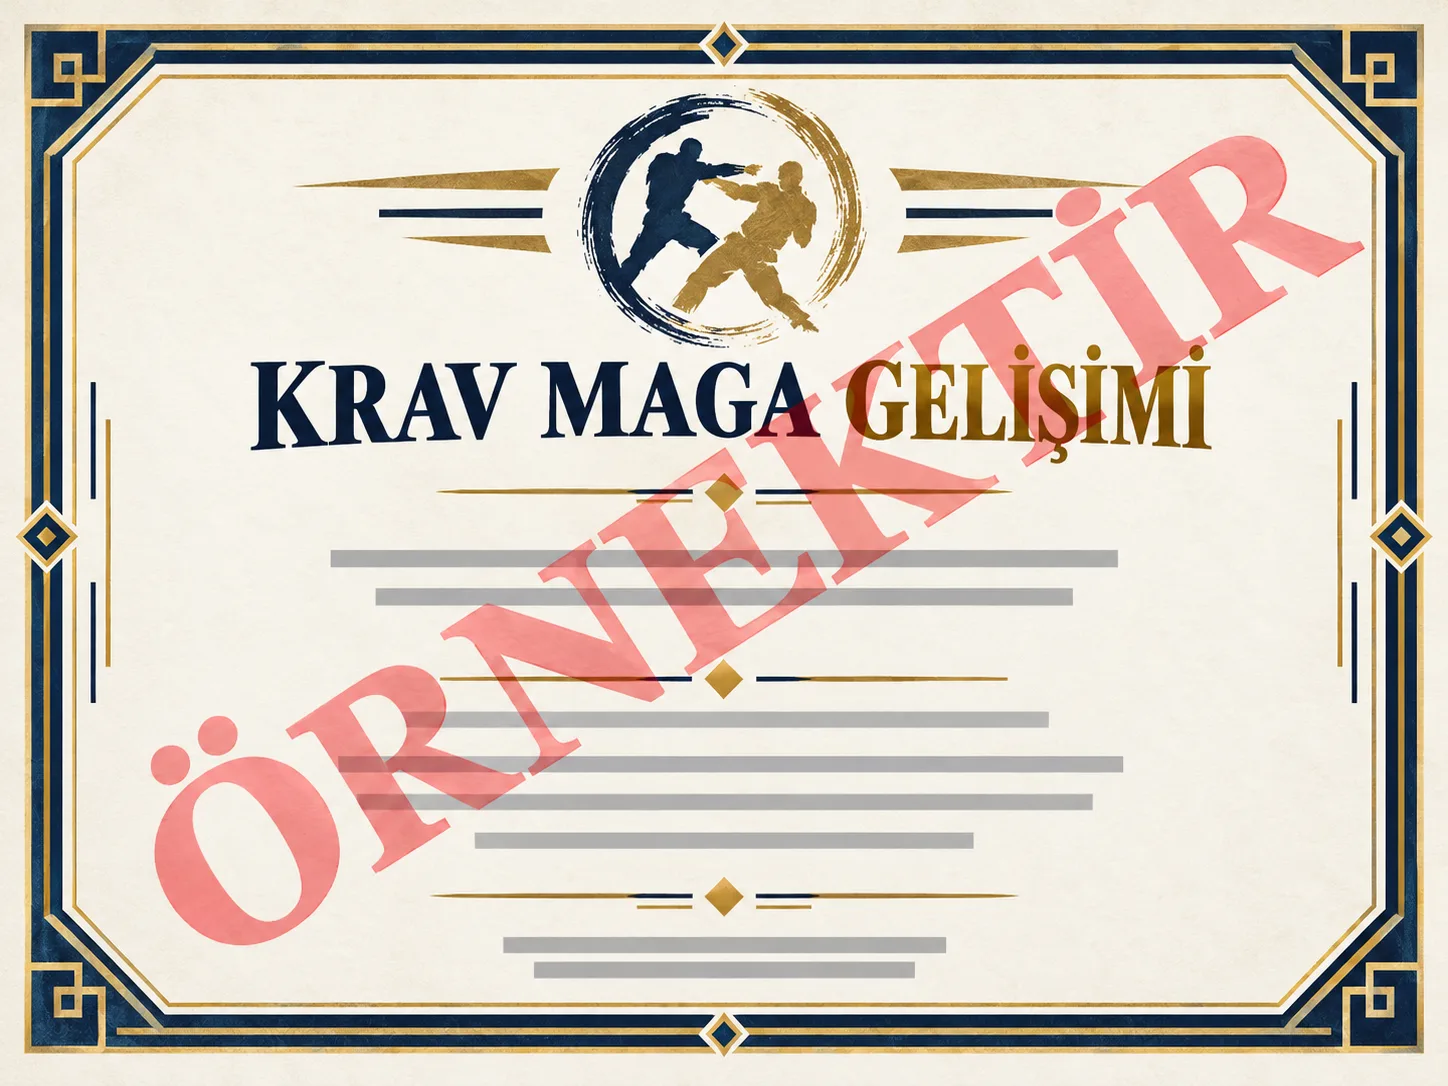
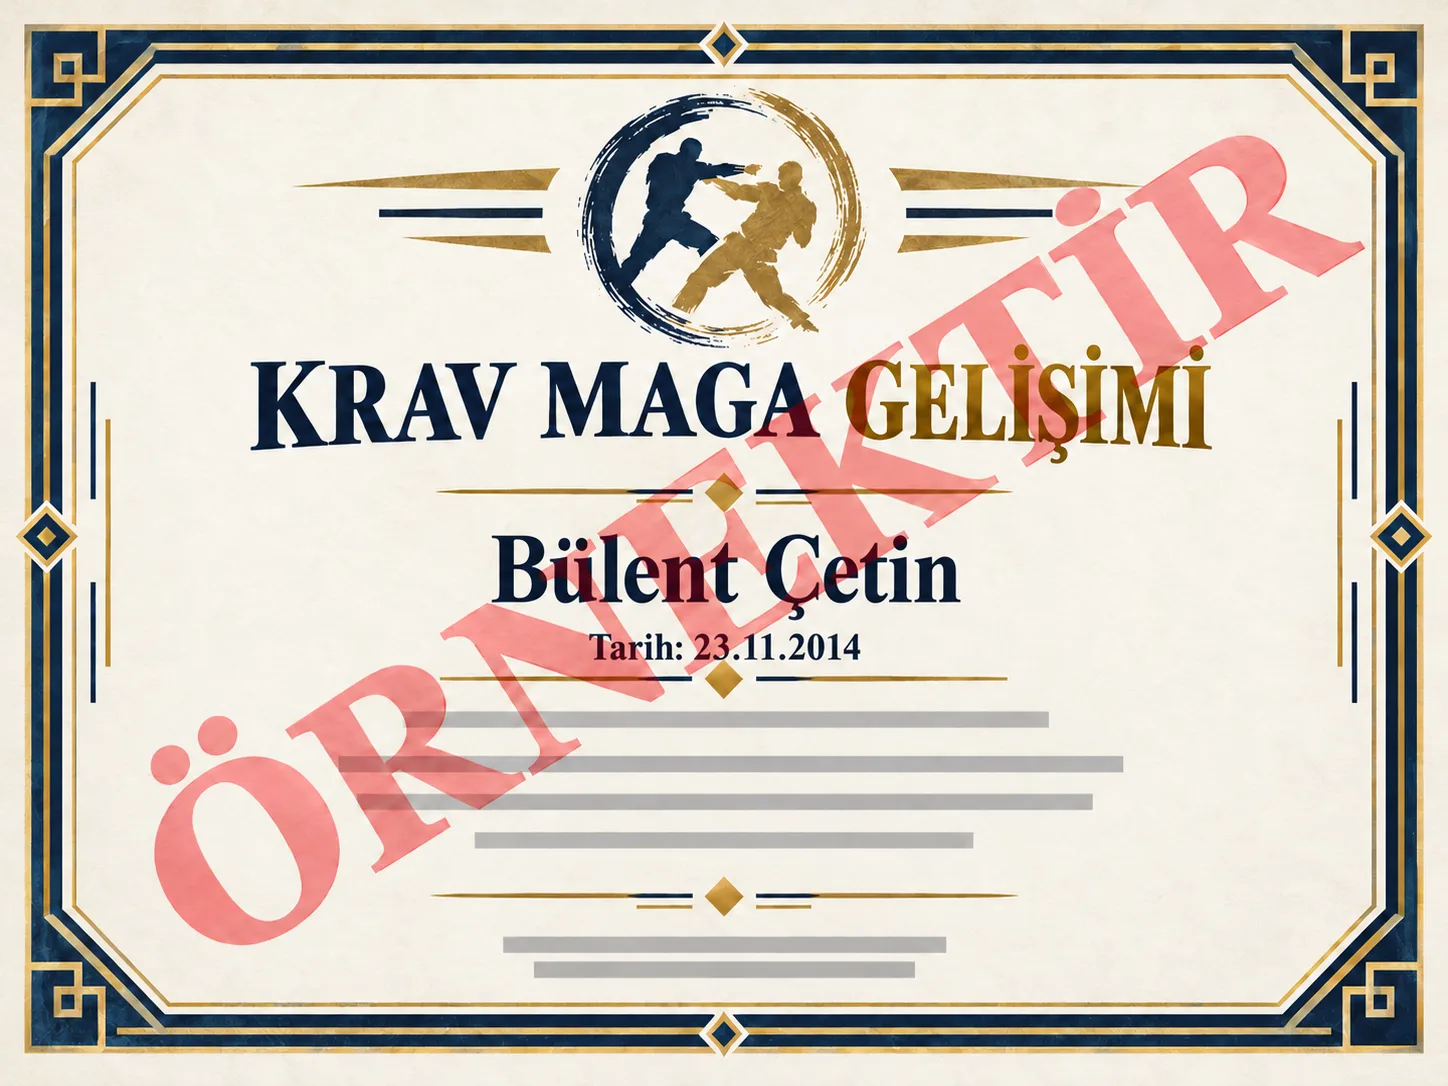
Add names and verified dates to document illustrations

diff --git a/belgeler.html b/belgeler.html
@@ -324,7 +324,7 @@
       <h2>Belgelerimiz</h2>
 
       <p>
-        Görseller imza ve kişisel bilgiler içermeyen temsili çizimlerdir. Büyütmek için çizime tıklayın.
+        İmzaları çıkarılmış temsili çizimlerde belge türü, isim ve tarihler gösterilir. Büyütmek için çizime tıklayın.
       </p>
 
     </div>
@@ -340,6 +340,7 @@
             <b>01</b>
             <span>MARKA</span>
             <strong>MARKA TESCİLİ</strong>
+            <small>Bülent Çetin · 05.01.2017 · 25.09.2017</small>
           </div>
         </a>
       </article>
@@ -353,6 +354,7 @@
             <b>02</b>
             <span>KRAV MAGA</span>
             <strong>EĞİTMENLİK BELGESİ</strong>
+            <small>Bülent Çetin · 23.11.2014 · 31.03.2016</small>
           </div>
         </a>
       </article>
@@ -366,6 +368,7 @@
             <b>03</b>
             <span>TAE KWON DO</span>
             <strong>SİCİL ÖZETİ</strong>
+            <small>Bülent Çetin · Rapor: 03.07.2026</small>
           </div>
         </a>
       </article>
@@ -379,6 +382,7 @@
             <b>04</b>
             <span>KRAV MAGA</span>
             <strong>EĞİTİM BELGESİ</strong>
+            <small>Bülent Çetin · 2016</small>
           </div>
         </a>
       </article>
@@ -392,6 +396,7 @@
             <b>05</b>
             <span>MUAY THAI</span>
             <strong>HAKEMLİK BELGESİ</strong>
+            <small>Bülent Çetin · 20.07.2009</small>
           </div>
         </a>
       </article>
@@ -405,6 +410,7 @@
             <b>06</b>
             <span>GÜVENLİK EĞİTİMİ</span>
             <strong>EĞİTİM BELGESİ</strong>
+            <small>Bülent Çetin · 24.07.1996</small>
           </div>
         </a>
       </article>
@@ -418,6 +424,7 @@
             <b>07</b>
             <span>ULUSLARARASI EĞİTİM</span>
             <strong>EĞİTİM BELGESİ</strong>
+            <small>Bülent Çetin · 19–21.06.2017</small>
           </div>
         </a>
       </article>
@@ -431,6 +438,7 @@
             <b>08</b>
             <span>KRAV MAGA</span>
             <strong>GELİŞİM BELGESİ</strong>
+            <small>Bülent Çetin · 23.11.2014</small>
           </div>
         </a>
       </article>
@@ -444,6 +452,7 @@
             <b>09</b>
             <span>TAE KWON DO</span>
             <strong>EĞİTİM BELGESİ</strong>
+            <small>Bülent Çetin · 12.12.1994</small>
           </div>
         </a>
       </article>
@@ -554,15 +563,16 @@
 }
 .kmt-belgeler .info{
   width:100%;
-  height:112px;
-  min-height:112px;
+  height:132px;
+  min-height:132px;
   overflow:hidden;
   padding:18px 16px 18px 68px;
   display:flex;
   flex-direction:column;
   justify-content:center;
-  flex:0 0 112px;
+  flex:0 0 132px;
 }
+.kmt-belgeler .info small{display:block;margin-top:7px;color:#bbb;font-size:12px;line-height:1.3;font-weight:400}
 .kmt-belgeler .info strong{
   display:-webkit-box;
   -webkit-box-orient:vertical;
@@ -577,9 +587,9 @@
   .kmt-belgeler .grid{grid-template-columns:1fr;gap:16px}
   .kmt-belgeler .pic{aspect-ratio:4/3!important;padding:10px!important}
   .kmt-belgeler .info{
-    height:96px;
-    min-height:96px;
-    flex-basis:96px;
+    height:128px;
+    min-height:128px;
+    flex-basis:128px;
     padding:16px 14px 16px 62px
   }
 }
